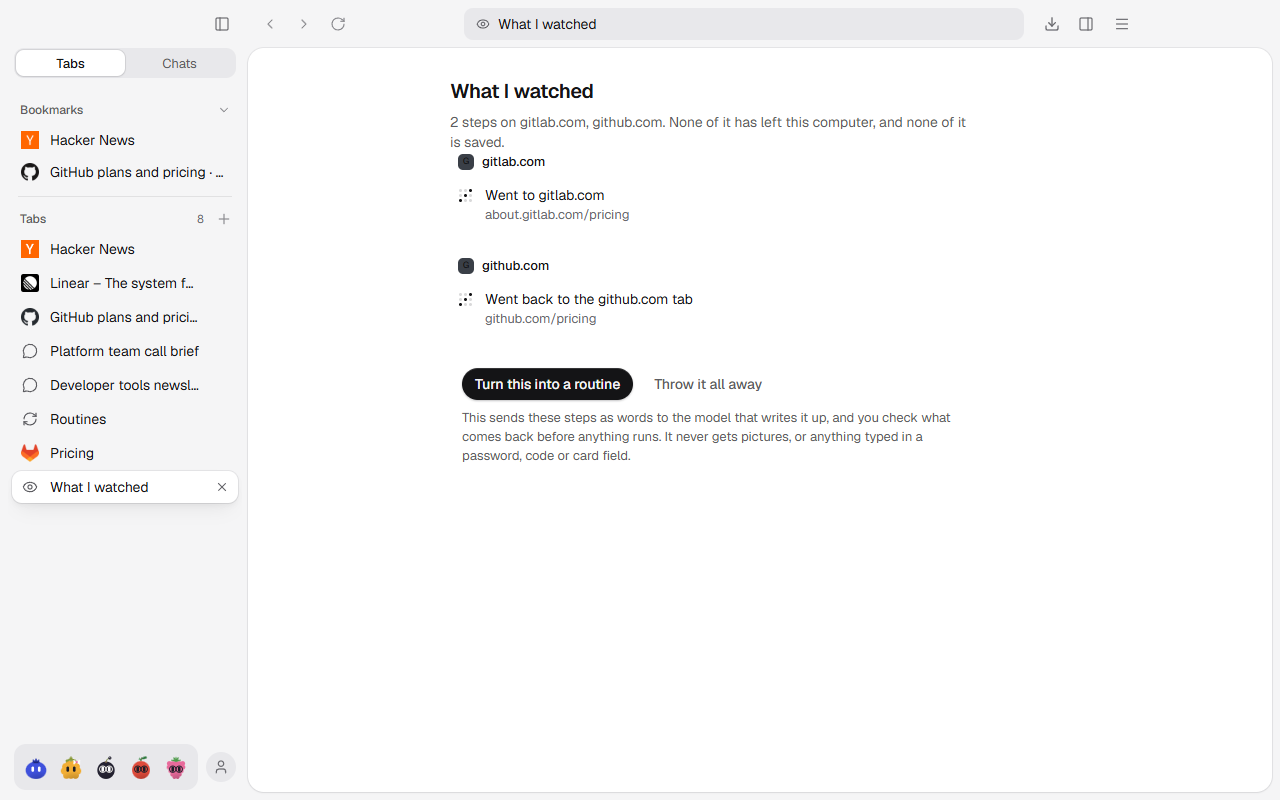
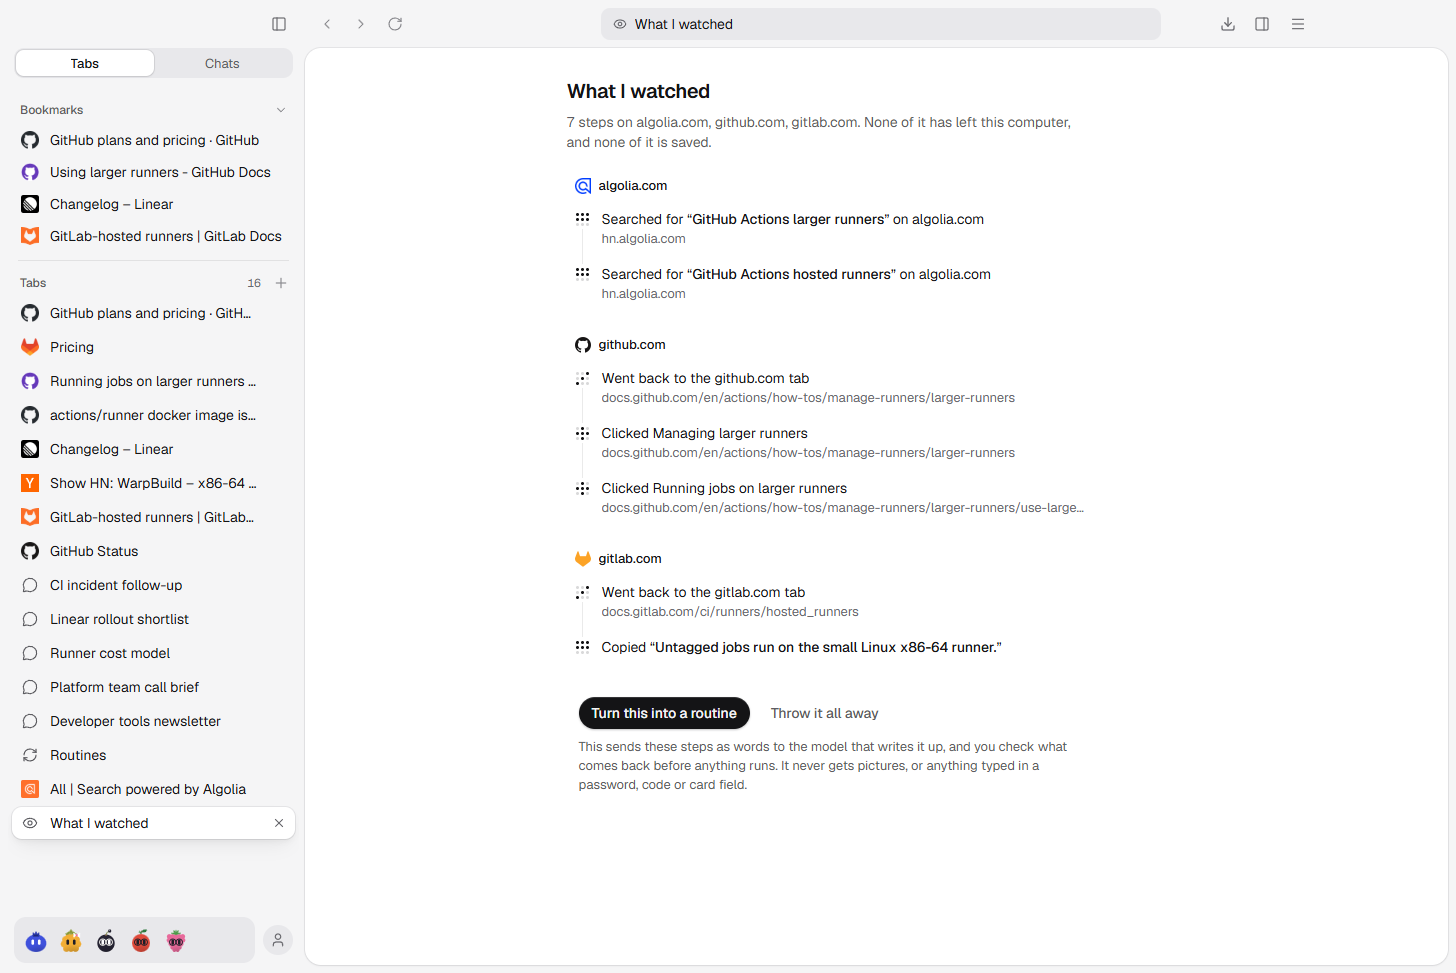
Show a working engineering profile in the README

diff --git a/README.md b/README.md
@@ -10,11 +10,11 @@ Blueberry is an AI browser that can do jobs in your tabs. Ask Berry to research 
 
 ### Browse and work in the same window
 
-Blueberry has tabs, history, bookmarks, downloads, find, zoom and site permissions. Choose a vertical sidebar or horizontal tabs, and a light or dark appearance. In the Pips design, small grids of dots mark what a mascot is doing and when it needs you.
+Blueberry has tabs, history, bookmarks, downloads, find, zoom and site permissions. Choose a vertical sidebar or horizontal tabs, and a light or dark appearance. Small grids of dots show what a mascot is doing and when it needs you.
 
 The new tab page is where you type an address or ask a mascot to do something. It shows jobs waiting for you and suggests chats to pick up, jobs to try, or routines and mascots based on your recent activity. Import history from Chrome, Brave or Edge to help it get started. On macOS you can also import from Arc.
 
-![The new tab page suggests comparing GitHub and GitLab and picking Hacker News stories before standup](docs/images/new-tab.webp)
+![The new tab page suggests comparing GitHub and GitLab and checking weekly updates from GitHub Status and Linear](docs/images/new-tab.webp)
 
 ### Jobs that keep going when you leave
 
@@ -36,7 +36,7 @@ You can review a Gallery mascot's instructions and permissions before adding it.
 
 Open Show Berry how from Routines, do the job once in the browser and press **Done**. Read the notes, leave out any steps you don't need, and turn what's left into a draft routine. It watches the tab in front while recording and keeps passwords out of the notes.
 
-![The What I watched page shows the sites visited during a recording and a button to turn the notes into a routine](docs/images/show-berry-how.webp)
+![The What I watched page shows the steps Berry recorded while researching hosted runners and a button to turn the notes into a routine](docs/images/show-berry-how.webp)
 
 ### Use Blueberry from other apps
 
